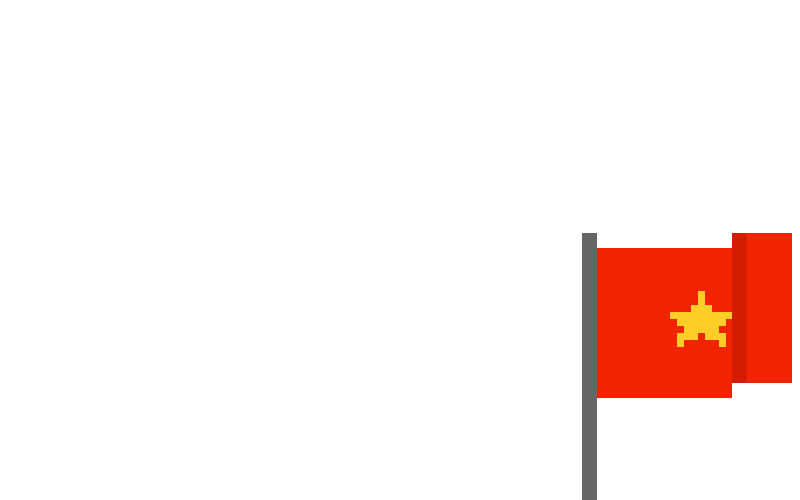
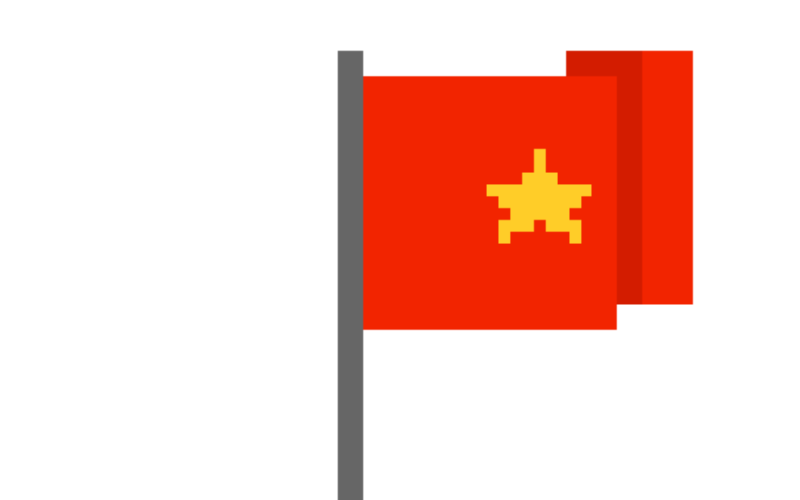
Add files via upload

Changed region(s): [[0.4062, 0.09, 1.0, 1.0]]

diff --git a/index.html b/index.html
@@ -58,6 +58,9 @@ let girlTroll3Img = new Image(); girlTroll3Img.src = "girl_troll3.png";
 // --- KHAI BÁO 2 ẢNH FLAG ĐỂ CHUYỂN ĐỘNG ---
 let flag1Img = new Image(); flag1Img.src = "flag1.png";
 let flag2Img = new Image(); flag2Img.src = "flag2.png";
+
+// Biến để đếm thời gian chuyển đổi ảnh flag
+let flagAnimTime = 0;
 // --- KHAI BÁO ẢNH BACKGROUND (NHỚ ĐÚNG TÊN FILE TRÊN GITHUB) ---
 let bg1Img = new Image(); bg1Img.src = "bg1.jpg";
 let bg2Img = new Image(); bg2Img.src = "bg2.jpg";
@@ -72,7 +75,6 @@ let boyFinalImg = new Image(); boyFinalImg.src = "boy_final.png";
 let girlFinalImg = new Image(); girlFinalImg.src = "girl_final.png";
 
 // ===== 2. BIẾN GAME =====
-    let flagAnimTime = 0; // Cực kỳ quan trọng, thiếu cái này là game đứng hình!
 let scene = 1, money = 0, animTime = 0, particles = [], targetMoney = 10;
 let planeY = 250, planeV = 0, gravity = 0.4, obstacles = [], progress = 0, gameOverM2 = false;
 let girls = [], feedbackText = "", feedbackTime = 0;
@@ -111,15 +113,28 @@ canvas.addEventListener("mousedown", (e) => {
     } else if (scene === 2) {
         if (gameOverM2) resetM2();
         else planeV = -8;
-    } else if (scene === 2.5) {
+    else if (scene === 2.5) {
         girls.forEach(g => {
-            if (mx > g.x && mx < g.x+g.w && my > g.y && my < g.y+g.h) {
-                if (g.isReal) { feedbackText = "THAT'S RIGHT! LOVE YA💖"; feedbackTime = 60; setTimeout(()=>scene=3, 1000); }
-                else { feedbackText = "WRONG! 😭 REPICK!"; feedbackTime = 60; }
+            // Khung mới là rộng 160, cao 220
+            if (mx > g.x && mx < g.x + 160 && my > g.y && my < g.y + 220) {
+                if (g.isReal) { 
+                    feedbackText = "THAT'S RIGHT! LOVE YA💖"; 
+                    feedbackTime = 60; 
+                    // Chuyển sang màn 3 sau 1 giây
+                    setTimeout(()=> {
+                        scene = 3;
+                        romanticMusic.play().catch(()=>{}); // Bật nhạc
+                        hasShowedPopup = true; // Chốt pop-up
+                    }, 1000); 
+                } else { 
+                    feedbackText = "WRONG! 😭 REPICK!"; 
+                    feedbackTime = 60; 
+                }
             }
         });
     }
 });
+
 // ===== 4. VÒNG LẶP VẼ CHÍNH =====
 function draw() {
     ctx.clearRect(0, 0, 800, 500);
@@ -147,122 +162,223 @@ function draw() {
     }
 
     // --- MÀN 2: BAY ---
-    else if (scene === 2) {
-        // 1. Vẽ nền
+else if (scene === 2) {
+        // Vẽ nền
         if (bg2Img.complete) ctx.drawImage(bg2Img, 0, 0, 800, 500);
         else { ctx.fillStyle = "#87CEEB"; ctx.fillRect(0, 0, 800, 500); }
 
         if (!gameOverM2) {
-            progress += 0.2; 
+            progress += 0.2; // Quãng đường bay
 
-            // Đảm bảo planeX có giá trị khởi đầu
-            if (typeof planeX === 'undefined') planeX = 80;
-
-            // 2. ĐIỀU KHIỂN
+            // --- ĐIỀU KHIỂN BẰNG PHÍM MŨI TÊN ---
             if (keys["ArrowUp"] || keys["KeyW"]) planeY -= 5;
             if (keys["ArrowDown"] || keys["KeyS"]) planeY += 5;
-            if (keys["ArrowLeft"] || keys["KeyA"]) planeX = Math.max(0, planeX - 5);
-            if (keys["ArrowRight"] || keys["KeyD"]) planeX = Math.min(600, planeX + 5);
+            if (keys["ArrowLeft"] || keys["KeyA"]) planeX = Math.max(0, (planeX || 80) - 5); // Nếu con muốn di chuyển trái phải
+            if (keys["ArrowRight"] || keys["KeyD"]) planeX = Math.min(600, (planeX || 80) + 5);
 
+            // Giới hạn biên màn hình
             if (planeY < 0) planeY = 0;
             if (planeY > 440) planeY = 440;
 
-            // 3. TẠO MÂY
+            // Tạo mây (vật cản)
             if (progress < 90 && Math.random() < 0.04) {
                 obstacles.push({x: 800, y: Math.random() * 450, w: 90, h: 50});
             }
 
-            // 4. XỬ LÝ MÂY & VA CHẠM
+            // Kiểm tra va chạm
             obstacles.forEach((o, i) => {
                 o.x -= 6;
                 ctx.fillStyle = "rgba(255,255,255,0.8)";
                 ctx.fillRect(o.x, o.y, o.w, o.h);
 
-                if (o.x < planeX + 100 && o.x + o.w > planeX + 20 && o.y < planeY + 60 && o.y + o.h > planeY + 20) {
+                // Va chạm chuẩn (pixelated style)
+                let pX = (planeX || 80);
+                if (o.x < pX + 100 && o.x + o.w > pX + 20 && o.y < planeY + 60 && o.y + o.h > planeY + 20) {
                     gameOverM2 = true;
                 }
                 if (o.x < -100) obstacles.splice(i, 1);
             });
-
-            // 5. XUẤT HIỆN CỜ KHI GẦN VỀ ĐÍCH (95%)
+          // --- XUẤT HIỆN NGỌN CỜ KHI GẦN VỀ ĐÍCH (95%) ---
             if (progress >= 95) {
-                let flagX = 800 - (progress - 95) * 150; // Tăng tốc độ cờ chạy ra cho rõ
+                // Ngọn cờ chạy từ phải sang trái
+                let flagX = 800 - (progress - 95) * 60; // Tốc độ cờ chạy lại gần
                 
-                if (typeof flagAnimTime !== 'undefined') flagAnimTime++; 
-                else flagAnimTime = 0;
-
-                let currentFlagImg = (Math.floor(flagAnimTime / 15) % 2 === 0) ? flag1Img : flag2Img;
-
-                if (currentFlagImg.complete && currentFlagImg.naturalWidth !== 0) {
-                    ctx.drawImage(currentFlagImg, flagX, 150, 120, 120);
+                // --- CHUYỂN ĐỘNG CỜ PHẤP PHỚI ---
+                let currentFlag;
+                // Cứ mỗi 20 khung hình, đổi ảnh 1 lần
+                if (flagAnimTime % 40 < 20) {
+                    currentFlag = flag1Img; // 20 khung hình đầu: Vẽ ảnh 1
                 } else {
-                    ctx.fillStyle = "red"; ctx.fillRect(flagX, 150, 10, 100);
-                    ctx.fillStyle = "white"; ctx.fillText("🚩", flagX + 15, 180);
+                    currentFlag = flag2Img; // 20 khung hình sau: Vẽ ảnh 2
+                }
+                flagAnimTime++; // Tăng biến đếm thời gian
+                
+                // Vẽ ảnh cờ hiện tại
+                if (currentFlag.complete) {
+                    ctx.drawImage(currentFlag, flagX, 200, 100, 100);
+                } else {
+                    // Dự phòng nếu lỗi ảnh (vẽ hình chữ nhật màu đỏ tạm thời)
+                    ctx.fillStyle = "red"; ctx.fillRect(flagX, 200, 30, 100); 
                 }
 
-                // Chạm cờ để qua màn (Đầu máy bay chạm cột cờ)
-                if (flagX <= planeX + 100) {
+                // Nếu máy bay chạm cờ -> THẮNG MÀN 2
+                if (flagX <= 180) { // Máy bay ở x=80, chiều rộng 120 -> Đầu máy bay ở x=200. Chạm ở 180 là hợp lý.
                     scene = 2.5;
                     initMiniGame();
                 }
             }
-        }
-
-        // 6. VẼ MÁY BAY
+        // Vẽ máy bay
         ctx.save();
         if (gameOverM2) ctx.globalAlpha = 0.5;
-        ctx.drawImage(planeImg, (typeof planeX !== 'undefined' ? planeX : 80), planeY, 120, 80);
+        if (planeImg.complete) ctx.drawImage(planeImg, (planeX || 80), planeY, 120, 80);
         ctx.restore();
 
-        // 7. UI
+        // UI
         ctx.fillStyle = "white";
         ctx.fillText("DISTANCE: " + Math.floor(progress) + "%", 30, 50);
+        ctx.fillText("USE ARROWS TO FLY! ⬆⬇", 270, 480);
+
         if (gameOverM2) {
-            ctx.fillStyle = "red"; ctx.fillText("CRASHED! CLICK TO RETRY", 200, 250);
-        } else {
-            ctx.fillText("USE ARROWS TO FLY! ⬆⬇", 270, 480);
+            ctx.fillStyle = "red";
+            ctx.fillText("CRASHED! PRESS CLICK TO RETRY", 200, 250);
         }
     }
-
-    // --- MÀN 2.5: CHỌN BẠN GÁI ---
+// ========================================================
+    // --- MÀN 2.5: CHỌN BẠN GÁI (CODE CHỐNG KÉO DÃN ẢNH) ---
+    // ========================================================
     else if (scene === 2.5) {
-        // --- VẼ BACKGROUND 2.5 (THAY CHO MÀU #222) ---
-        if (bg25Img.complete) ctx.drawImage(bg25Img, 0, 0, 800, 500);
-        else { ctx.fillStyle = "#222"; ctx.fillRect(0, 0, 800, 500); }
-
-        ctx.fillStyle = "white"; ctx.fillText("WHO IS YOUR REAL GIRL? 😏", 250, 100);
-        if (feedbackTime > 0) {
-            ctx.fillStyle = feedbackText.includes("WRONG") ? "#ff4d4d" : "#00ff00";
-            ctx.fillText(feedbackText, 250, 150); feedbackTime--;
+        // 1. Vẽ nền (Dùng background nếu có, không thì vẽ màu tối)
+        if (typeof bg25Img !== 'undefined' && bg25Img.complete) {
+            ctx.drawImage(bg25Img, 0, 0, 800, 500);
+        } else {
+            ctx.fillStyle = "#1a1a1a"; ctx.fillRect(0, 0, 800, 500); // Nền tối cho nổi ảnh
         }
-        girls.forEach(g => { if (g.img.complete) ctx.drawImage(g.img, g.x, g.y, g.w, g.h); });
-    }
 
-    // --- MÀN 3: GẶP NHAU ---
+        // 2. Tiêu đề
+        ctx.fillStyle = "white"; 
+        ctx.font = "16px 'Press Start 2P'"; 
+        ctx.fillText("WHO IS YOUR REAL GIRL? 😏", 180, 80);
+        
+        // 3. Hiển thị Phản hồi (Đúng/Sai)
+        if (feedbackTime > 0) {
+            ctx.fillStyle = feedbackText.includes("WRONG") ? "#ff4d4d" : "#00ff00"; // Màu đỏ nếu sai, xanh nếu đúng
+            ctx.font = "12px 'Press Start 2P'";
+            ctx.fillText(feedbackText, 300, 130); 
+            feedbackTime--;
+        }
+
+        // 4. VẼ 4 CÔ GÁI (GIỮ NGUYÊN TỶ LỆ ẢNH)
+        girls.forEach(g => { 
+            // Định nghĩa khung chứa ảnh (x, y, chiều rộng, chiều cao tối đa)
+            let frameX = g.x;
+            let frameY = g.y;
+            let frameW = 160; // Chiều rộng khung
+            let frameH = 220; // Chiều cao khung tối đa
+
+            // --- VẼ KHUNG HỒNG TRƯỚC ---
+            ctx.fillStyle = "#ffb6c1"; // Màu hồng nhạt
+            ctx.fillRect(frameX, frameY, frameW, frameH);
+            ctx.strokeStyle = "white"; // Viền trắng
+            ctx.lineWidth = 4;
+            ctx.strokeRect(frameX, frameY, frameW, frameH);
+
+            // --- VẼ ẢNH VỚI TỶ LỆ CHUẨN ---
+            if (g.img.complete && g.img.naturalWidth !== 0) {
+                let imgW = g.img.naturalWidth; // Chiều rộng gốc của ảnh
+                let imgH = g.img.naturalHeight; // Chiều cao gốc của ảnh
+                let ratio = imgW / imgH; // Tỷ lệ ảnh gốc
+
+                // Tính toán kích thước ảnh mới để vừa khung hồng mà không bị dãn
+                let drawW, drawH;
+                if (ratio > frameW / frameH) {
+                    // Nếu ảnh quá rộng so với khung
+                    drawW = frameW - 20; // Chừa lề 10px mỗi bên
+                    drawH = drawW / ratio;
+                } else {
+                    // Nếu ảnh quá cao hoặc chuẩn tỷ lệ đứng
+                    drawH = frameH - 20; // Chừa lề 10px trên dưới
+                    drawW = drawH * ratio;
+                }
+
+                // Tính vị trí căn giữa ảnh trong khung hồng
+                let drawX = frameX + (frameW - drawW) / 2;
+                let drawY = frameY + (frameH - drawH) / 2;
+
+                ctx.drawImage(g.img, drawX, drawY, drawW, drawH);
+            } else {
+                // Nếu lỗi ảnh thì vẽ ô vuông hồng dự phòng
+                ctx.fillStyle = "pink"; 
+                ctx.fillRect(frameX + 10, frameY + 10, frameW - 20, frameH - 20);
+                ctx.fillStyle = "white"; ctx.font = "10px sans-serif";
+                ctx.fillText("LOADING", frameX + 40, frameY + 100);
+            }
+        });
+    }
+   // ========================================================
+    // --- MÀN 3: KẾT THÚC CÓ HẬU (HÌNH FINAL + NHẠC) ---
+    // ========================================================
     else if (scene === 3) {
-        // --- VẼ BACKGROUND 3 (THAY CHO MÀU #ffb6c1) ---
-        if (bg3Img.complete) ctx.drawImage(bg3Img, 0, 0, 800, 500);
-        else { ctx.fillStyle = "#ffb6c1"; ctx.fillRect(0, 0, 800, 500); }
+        // Vẽ nền (bg3.jpg)
+        if (typeof bg3Img !== 'undefined' && bg3Img.complete) {
+            ctx.drawImage(bg3Img, 0, 0, 800, 500);
+        } else {
+            ctx.fillStyle = "#ffb6c1"; ctx.fillRect(0, 0, 800, 500);
+        }
 
         if (!met) {
-            // ... (phần logic đi bộ lại gần và pop-up giữ nguyên) ...
-            boyX += 3; girlX -= 3;
+            boyX += 3; // Hai người đi lại gần nhau
+            girlX -= 3;
+            
+            // KHI CHẠM NHAU (KHOẢNG CÁCH 100PX)
             if (boyX >= girlX - 100) {
                 met = true;
-                if(!hasShowedPopup) {
+                
+                // --- PHÁT NHẠC VÀ HIỆN POP-UP ---
+                if (hasShowedPopup === false) {
                     document.getElementById('popup-overlay').style.display = 'flex';
-                    hasShowedPopup = true;
+                    
+                    // Phát nhạc lãng mạn (Nhớ up file romantic.mp3)
+                    if (typeof romanticMusic !== 'undefined') {
+                        romanticMusic.play().catch(e => console.log("Cần tương tác để phát nhạc"));
+                    }
+                    
+                    hasShowedPopup = true; // Khóa lại để không bị lặp sound
                 }
             }
         } else {
-            if (Math.random() < 0.2) hearts.push({x: boyX+60, y: 250, sx: (Math.random()-0.5)*8, sy: -5, life: 1});
-            ctx.fillStyle = "white"; ctx.fillText("FINALLY MEET 💖", 270, 180);
+            // Khi đã chạm nhau: Trái tim bay tung tóe
+            if (Math.random() < 0.2) {
+                hearts.push({x: boyX + 70, y: 300, sx: (Math.random()-0.5)*10, sy: -5, life: 1});
+            }
+            ctx.fillStyle = "white";
+            ctx.font = "14px 'Press Start 2P'";
+            ctx.fillText("FINALLY TOGETHER! 💖", 250, 150);
         }
-        if (idleImg.complete) ctx.drawImage(idleImg, boyX, 260, 140, 140);
-        if (girlRealImg.complete) ctx.drawImage(girlRealImg, girlX, 280, 100, 140);
+
+        // --- VẼ HÌNH FINAL BOY (boy_final.png) ---
+        if (boyFinalImg.complete && boyFinalImg.naturalWidth !== 0) {
+            ctx.drawImage(boyFinalImg, boyX, 240, 150, 150);
+        } else {
+            // Nếu lỗi ảnh thì vẽ ô xanh dự phòng
+            ctx.fillStyle = "blue"; ctx.fillRect(boyX, 290, 80, 100);
+        }
+
+        // --- VẼ HÌNH FINAL GIRL (girl_final.png) ---
+        if (girlFinalImg.complete && girlFinalImg.naturalWidth !== 0) {
+            ctx.drawImage(girlFinalImg, girlX, 240, 150, 150);
+        } else {
+            // Nếu lỗi ảnh thì vẽ ô hồng dự phòng
+            ctx.fillStyle = "#ff69b4"; ctx.fillRect(girlX, 290, 80, 100);
+        }
+
+        // Vẽ hiệu ứng trái tim
         hearts.forEach((h, i) => {
-            ctx.globalAlpha = h.life; ctx.fillStyle = "red"; ctx.fillText("❤", h.x, h.y);
-            h.x += h.sx; h.y += h.sy; h.life -= 0.02; if(h.life <= 0) hearts.splice(i, 1);
+            ctx.globalAlpha = h.life;
+            ctx.fillStyle = "red";
+            ctx.font = "16px Arial"; // Tim dùng Arial cho mượt
+            ctx.fillText("❤", h.x, h.y);
+            h.x += h.sx; h.y += h.sy; h.life -= 0.02;
+            if (h.life <= 0) hearts.splice(i, 1);
         });
         ctx.globalAlpha = 1;
     }
